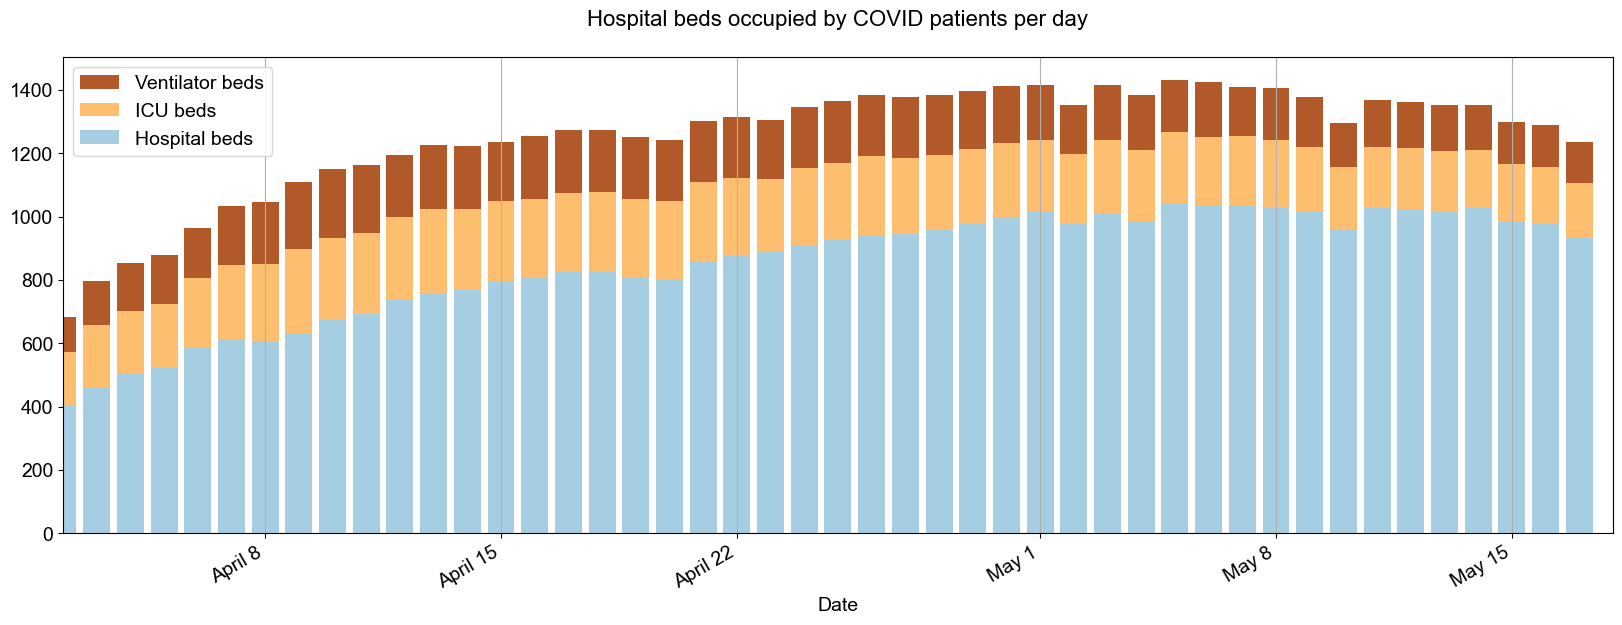
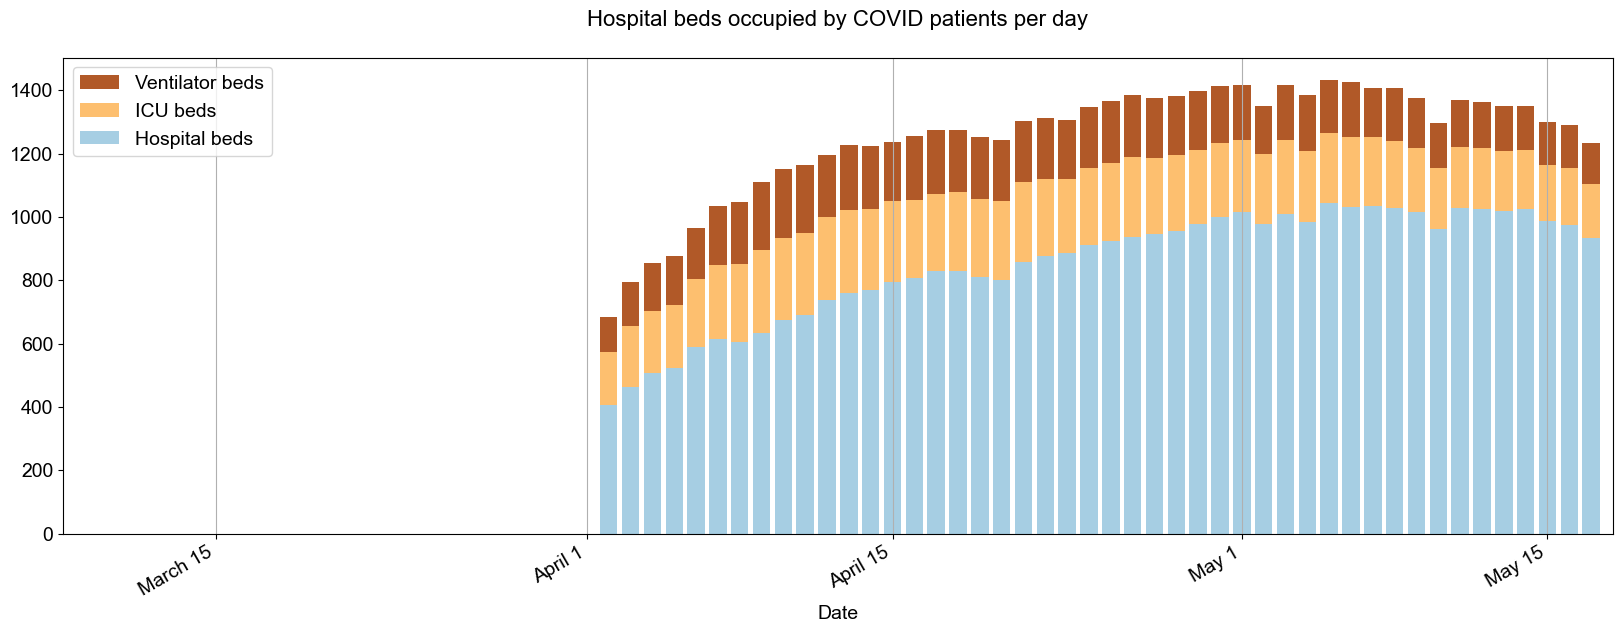
Set the start date of every plot to 2020-03-08

diff --git a/covid_ontario/plot_on_gov_data.py b/covid_ontario/plot_on_gov_data.py
@@ -427,7 +427,7 @@ def main():
     })
     fig = plot_timeline(
         cases,
-        "2020-03-24",
+        "2020-03-08",
         colormap="tab20c",
         title_append="",
         title_total="Running total"
@@ -444,7 +444,7 @@ def main():
     healthcare = tests[healthcare_cols].rename(columns=healthcare_cols)
     fig = plot_timeline(
         healthcare,
-        "2020-04-02",
+        "2020-03-08",
         colormap="Paired",
         title_append="Hospital beds occupied by COVID patients per day",
         plot_change=False,
@@ -456,7 +456,7 @@ def main():
     cases = tests[case_cols]
     fig = plot_timeline(
         cases,
-        "2020-04-14",
+        "2020-03-08",
         colormap="tab20b",
         title_append="COVID tests performed in the last day",
         plot_change=False,

diff --git a/README.md b/README.md
@@ -10,9 +10,11 @@ _Outstanding cases_ are confirmed COVID cases who have not yet recovered or died
 
 ## Hospital beds 
 ![](covid_ontario/plots/hospital.png) 
+No data is available before April 2nd. 
 
 ## Testing volume
 ![](covid_ontario/plots/testing.png) 
+No data is available before April 15th.
 
 ## Confirmed COVID cases 
 _Episode date_ is the estimated date of disease onset. 
